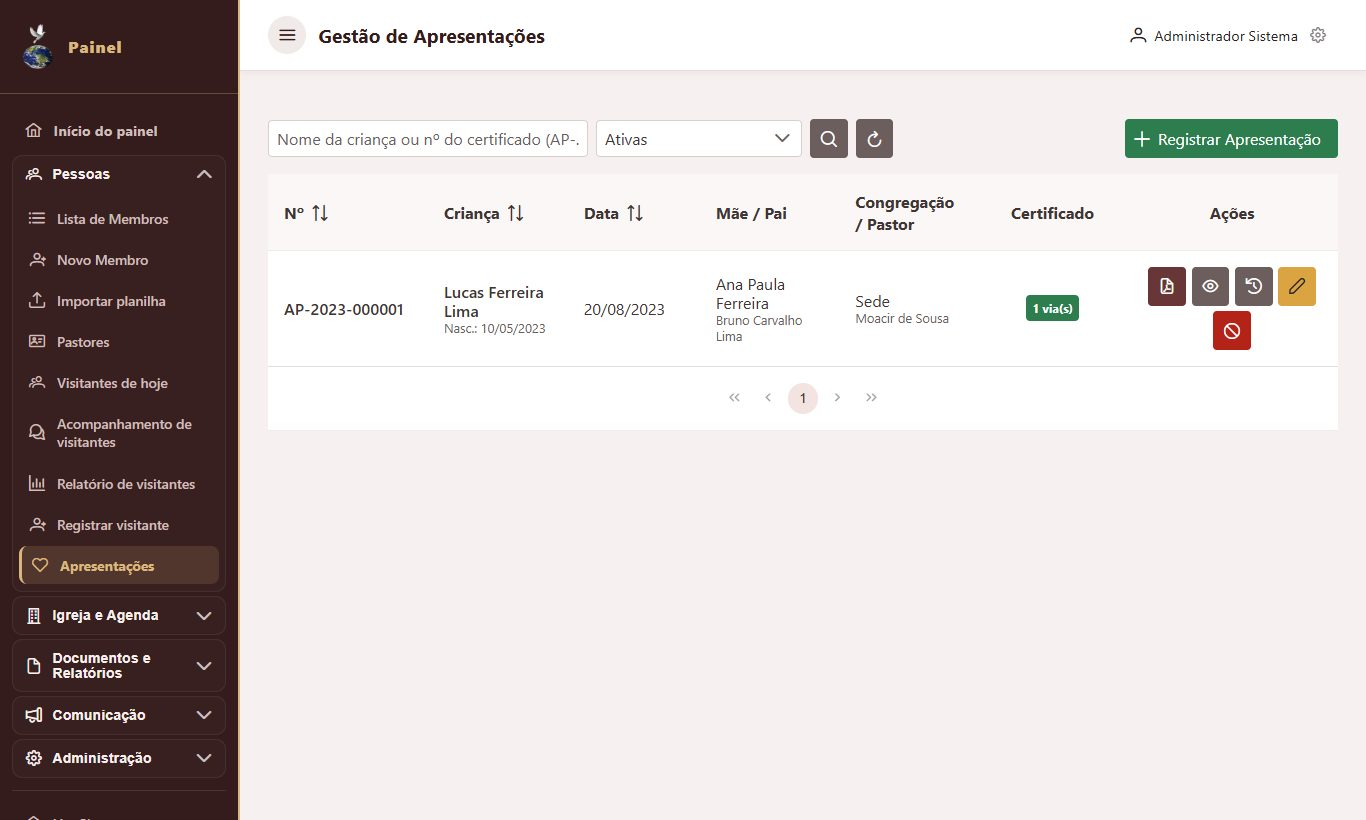
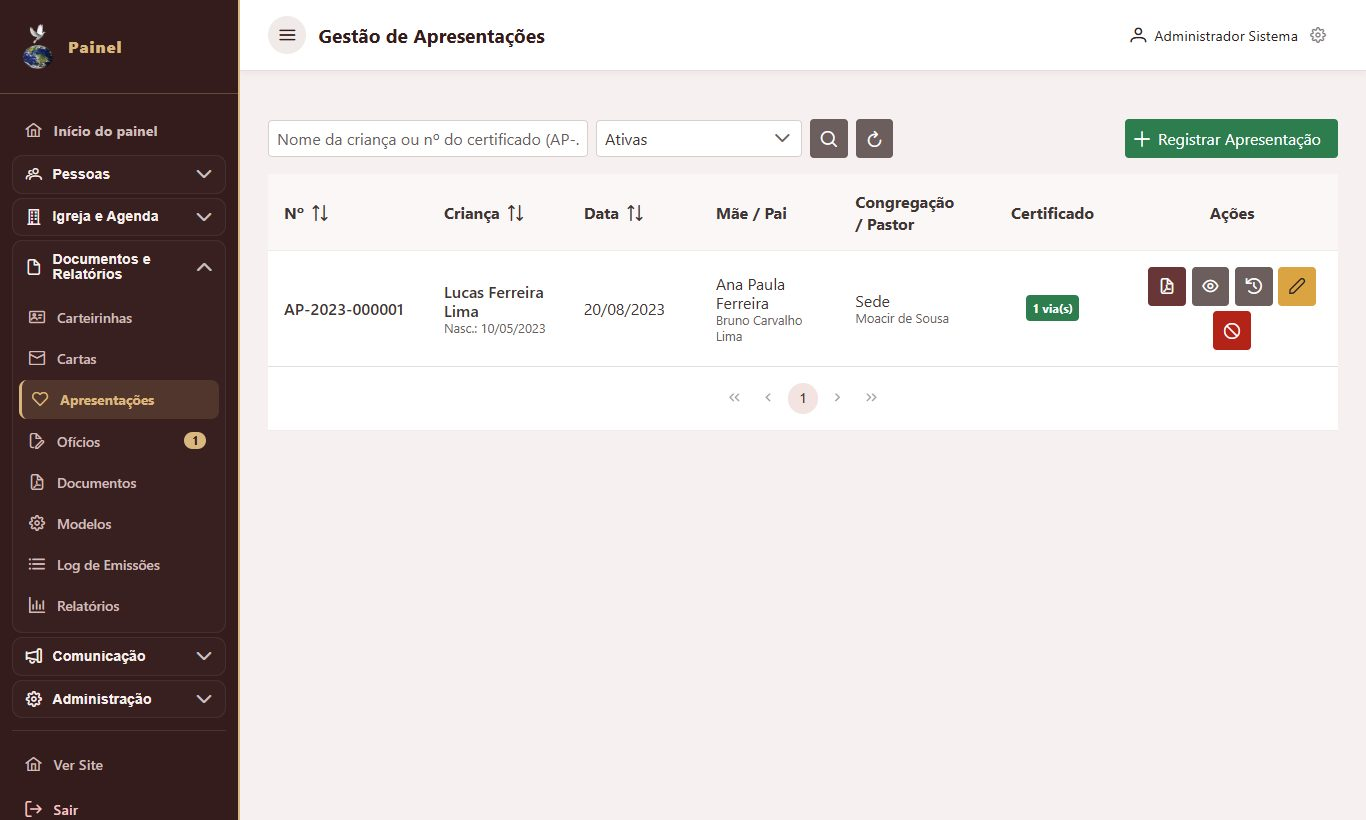
Atualiza a apresentação (origem: ministerio@2bd4039)

diff --git a/README.md b/README.md
@@ -334,8 +334,9 @@ Ofícios para a CONFRAMADEGO (separação ao diaconato e ao presbitério, consag
 
 #### Apresentação de crianças
 
-A apresentação é o registro oficial, e **é o único lugar onde o certificado de apresentação é emitido**.
+A apresentação é o registro oficial, e **é o único lugar onde o certificado de apresentação é emitido**. Fica no menu **Documentos e Relatórios › Apresentações** e segue o fluxo da carta e do ofício: registrar ou editar abre uma tela própria de elaboração, e a emissão fica na lista.
 
+- **Texto do certificado editável:** sai de um modelo com variáveis (`{{NASCIMENTO}}`, `{{PAI}}`, `{{MAE}}`, `{{DATA}}`, `{{CONGREGACAO}}`, `{{PASTOR}}`, `{{NOME}}`) e pode ser corrigido à mão. Enquanto não é mudado, acompanha os dados; "Refazer o texto pelo modelo" volta ao padrão. O quadro "Como vai sair" mostra o texto com os dados e avisa quando ele fica longo para a arte. Depois de salvar, **Pré-visualizar PDF** abre o certificado sem assinaturas e sem QR Code, só para conferir.
 - **Cadastro do bebê** na própria tela: nome, CPF (da certidão), data de nascimento e sexo. A criança fica na categoria *Criança*: não conta como membro, não entra nos relatórios de membros nem recebe carteirinha. A filiação é preenchida a partir dos pais.
 - **Mãe obrigatória:** vinculada ao cadastro, se for membro, ou pelo nome completo. O pai é opcional.
 - **Certificado numerado** (ex.: `AP-2026-000007`), na arte oficial (azul para menino, rosa para menina). Traz filiação, data, congregação, pastor, número da via e data de emissão.
@@ -345,7 +346,9 @@ A apresentação é o registro oficial, e **é o único lugar onde o certificado
   - Alterar os dados depois da emissão fica na auditoria.
   - Uma apresentação com certificado emitido não é excluída, só **cancelada**, com motivo.
 
-![Apresentações](docs/telas/24-admin-apresentacoes.jpg)
+| Lista de apresentações | Apresentação com o texto do certificado editável |
+|---|---|
+| ![Apresentações](docs/telas/24-admin-apresentacoes.jpg) | ![Edição da apresentação](docs/telas/67-admin-apresentacao-edicao.jpg) |
 
 ![Certificado de apresentação](docs/telas/24b-certificado-apresentacao.jpg)
 
